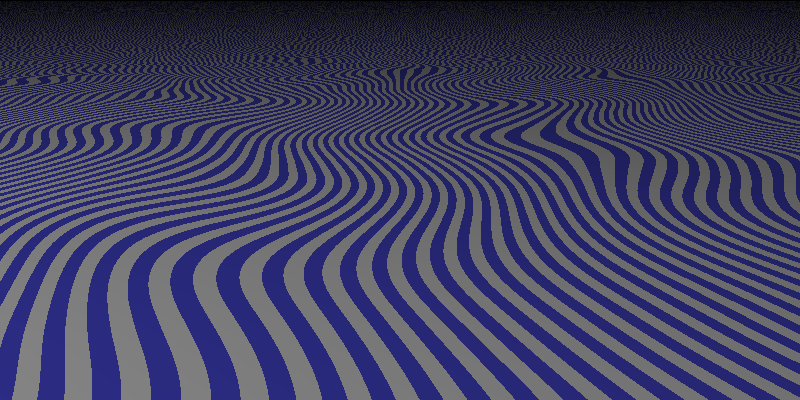
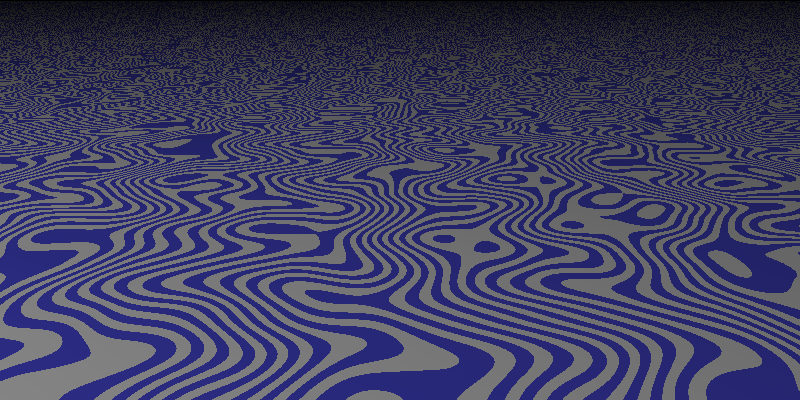
more controls for noice and perlin patterns

diff --git a/src/main.rs b/src/main.rs
@@ -105,8 +105,16 @@ fn create_pattern(pattern: &scene::scene::Pattern) -> Pattern {
     if pattern.pattern_type == "solid" {
         return Pattern::solid(color_from_vec(&pattern.color.unwrap_or(vec![0.0, 0.0, 0.0])), transform.clone());
     } else {
-        let pattern_a = create_pattern(&pattern.pattern_a.unwrap_or_default());
-        let pattern_b = create_pattern(&pattern.pattern_b.unwrap_or_default());
+        let pattern_a = if pattern.color_a.is_some() {
+            Pattern::solid(color_from_vec(&pattern.color_a.unwrap()), transform.clone())
+        } else {
+            create_pattern(&pattern.pattern_a.unwrap_or_default())
+        };
+        let pattern_b = if pattern.color_b.is_some() {
+            Pattern::solid(color_from_vec(&pattern.color_b.unwrap()), transform.clone())
+        } else {
+            create_pattern(&pattern.pattern_b.unwrap_or_default())
+        };
         match pattern.pattern_type.as_str() {
             "stripe" => Pattern::stripe(pattern_a, pattern_b, transform.clone()),
             "gradient" => Pattern::gradient(pattern_a, pattern_b, transform.clone()),
@@ -123,8 +131,10 @@ fn create_pattern(pattern: &scene::scene::Pattern) -> Pattern {
                 Pattern::perturbed(pattern_a, scale, octaves as usize, persistence, transform.clone())
             },
             "noise" => {
+                let octaves = pattern.octaves.unwrap_or(1);
+                let persistence = pattern.persistence.unwrap_or(1.0);
                 let scale = pattern.scale.unwrap_or(1.0);
-                Pattern::noise(pattern_a, pattern_b, scale, transform.clone())
+                Pattern::noise(pattern_a, pattern_b, scale, octaves as usize, persistence, transform.clone())
             },
             _ => Pattern::solid(Color::new(0.0, 0.0, 0.0), transform.clone()),
         }
@@ -147,7 +157,7 @@ fn create_shape(scene_object: &SceneObject) -> Shape {
         "plane" => Shape::plane(),
         _ => Shape::sphere(),
     };
-    s.transform = create_transforms(&scene_object.transforms);
+    s.transform = create_transforms(&scene_object.transforms.clone().unwrap_or(vec![]));
     s.material = create_material(&scene_object.material);
     s
 }

diff --git a/src/pattern.rs b/src/pattern.rs
@@ -12,8 +12,8 @@ pub mod pattern {
         Ring(Box<Pattern>, Box<Pattern>),
         Checker(Box<Pattern>, Box<Pattern>),
         Blend(Box<Pattern>, Box<Pattern>, f64),
-        Perturbed(Box<Pattern>, f64,usize,f64),
-        Noise(Box<Pattern>,Box<Pattern>, f64)
+        Perturbed(Box<Pattern>, f64, usize, f64),
+        Noise(Box<Pattern>,Box<Pattern>, f64, usize, f64)
     }
 
     #[derive(Debug, Clone, PartialEq)]
@@ -72,9 +72,9 @@ pub mod pattern {
             }
         }
 
-        pub fn noise(a: Pattern, b: Pattern, scale: f64, transform: Matrix) -> Pattern {
+        pub fn noise(a: Pattern, b: Pattern, scale: f64, octaves: usize, persistence: f64, transform: Matrix) -> Pattern {
             Pattern {
-                pattern_type: PatternType::Noise(Box::new(a), Box::new(b), scale),
+                pattern_type: PatternType::Noise(Box::new(a), Box::new(b), scale, octaves, persistence),
                 transform,
             }
         }
@@ -134,10 +134,9 @@ pub mod pattern {
                     let new_point = Tuple::new(new_x, new_y, new_z, pattern_point.w);
                     a.pattern_at(&new_point)
                 },
-                PatternType::Noise(a,b, scale) => {
-                    //let noise = NOISE_GENERATOR.get_noise_3d(pattern_point.x, pattern_point.y, pattern_point.z);
-                    let noise = noise::octave_perlin(pattern_point.x, pattern_point.y, pattern_point.z, 3, 0.8);
-                    let noise = noise as f64 * scale;
+                PatternType::Noise(a,b, scale, octaves, persistence) => {
+                    let noise = noise::octave_perlin(pattern_point.x, pattern_point.y, pattern_point.z, *octaves, *persistence);
+                    let noise = noise * scale;
                     if noise <= 0.0 {
                         a.pattern_at(&pattern_point).multiply(-noise)
                     } else {

diff --git a/src/scene.rs b/src/scene.rs
@@ -33,7 +33,7 @@ pub mod scene {
     pub struct SceneObject {
         #[serde(rename = "type")]
         pub object_type: String,
-        pub transforms: Vec<Transform>,
+        pub transforms: Option<Vec<Transform>>,
         pub material: Material,
     }
 
@@ -68,6 +68,8 @@ pub mod scene {
         #[serde(rename = "type")]
         pub pattern_type: String,
         pub color: Option<Vec<f64>>,
+        pub color_a: Option<Vec<f64>>,
+        pub color_b: Option<Vec<f64>>,
         pub pattern_a: Option<Box<Pattern>>,
         pub pattern_b: Option<Box<Pattern>>,
         pub transforms: Option<Vec<Transform>>,
@@ -81,6 +83,8 @@ pub mod scene {
             Pattern {
                 pattern_type: "solid".to_string(),
                 color: Some(vec![0.0, 0.0, 0.0]),
+                color_a: None,
+                color_b: None,
                 pattern_a: None,
                 pattern_b: None,
                 transforms: Some(Vec::new()),
